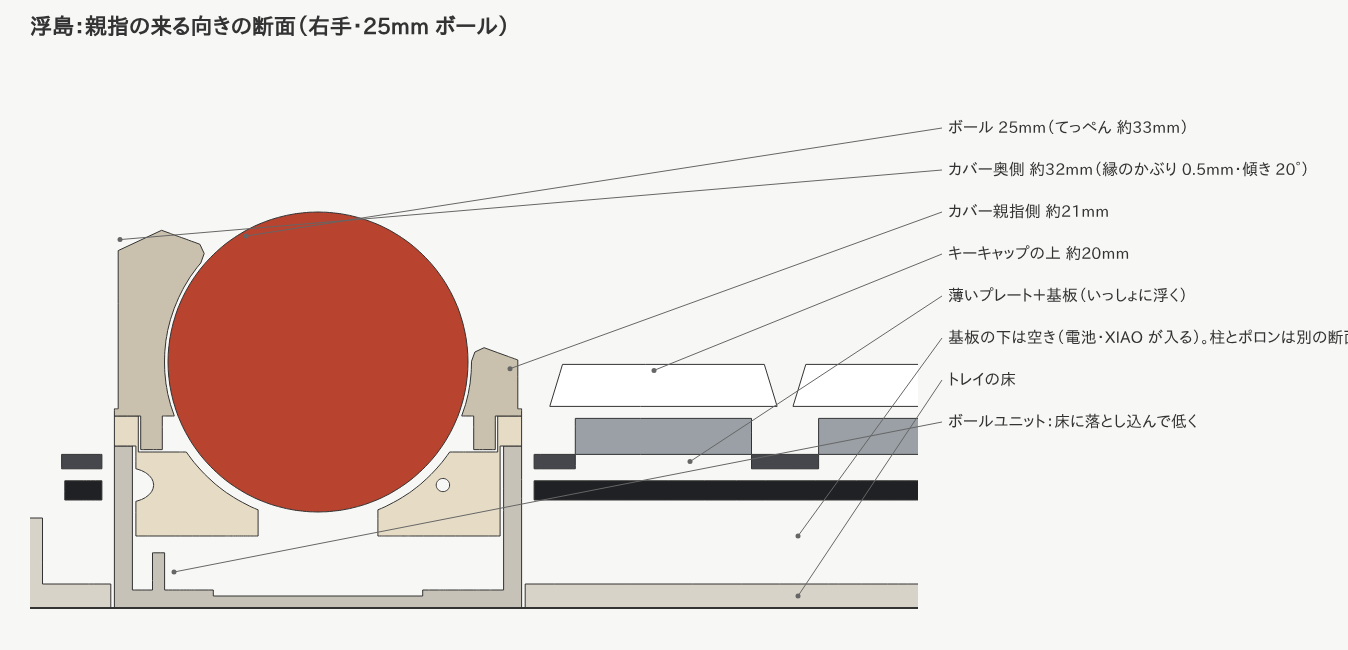
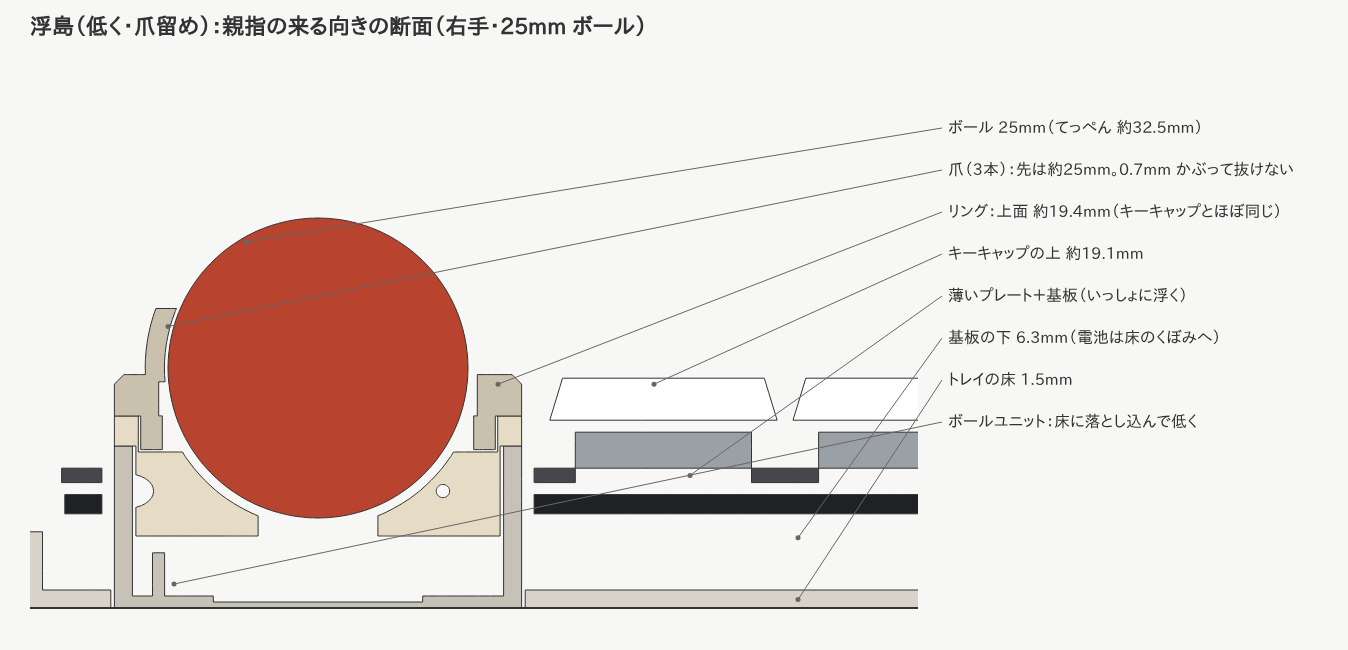
Concept Ukishima v2: lower stack and claw-set ball cover
Floor 1.5mm, battery in a floor pocket and 5.85mm under the PCB bring
key tops to ~19.1mm; the ball base floor drops to 1mm (ball top ~32.5mm).
The cover becomes a low ring flush with the keycaps plus three slim
claws following the ball (0.7mm overlap), leaving the thumb side open.
Previous renders kept as ukishima-v1-*.

Claude-Session: https://claude.ai/code/session_017zNm7dMSTHELcztuNr6aNy

diff --git a/case/concept_ukishima.py b/case/concept_ukishima.py
@@ -9,7 +9,9 @@
   - 基板＋薄いプレートを、トレイから立てた柱のポロン (ガスケット) で上下から挟んで支える
     (外周 6 か所＋内側 2 か所。キーの角どうしのすき間に置く)
   - ボールユニットは机から立つ柱。トレイの床に落とし込んで低くする (25mm ボール)
-  - カバーは縁のかぶり 0.5mm・傾き 20° にして低くする
+  - カバーは「爪留め」: キーキャップとほぼ同じ高さの低いリング＋細い爪 3 本でボールを押さえる
+    (宝石の爪留めの形。爪のあいだからボールの横まで見え、親指で上からも横からも触れる)
+  - 全体を低くする: 床 1.5mm、電池は床のくぼみ (底 0.5mm) に入れ、基板の下のすき間を 7 → 5.85mm に
 """
 import json
 import os
@@ -23,17 +25,28 @@ import ball_unit as bu  # noqa: E402
 import kataware_case as k  # noqa: E402
 
 U = k.U
-# --- カバーを低くする (構想の値) ---
-bu.LIP_OVERLAP = 0.5
-bu.COVER_TILT = 20.0
+# --- ボールユニットを低くする (構想の値): 土台の底を 1.0mm に (センサー基板の下は 0.5mm) ---
+bu.BASE_FLOOR = 1.0
+bu.SENSOR_TOP = bu.BASE_FLOOR - bu.SENSOR_POCKET + bu.SENSOR_T
+bu.BALL_BOTTOM = bu.SENSOR_TOP + bu.LENS_H + bu.LENS_GAP
 
 # --- 高さ (机から) ---
-FLOOR = 2.0          # トレイの床
-RIM = 7.5            # トレイの縁の高さ (基板の下面より 1.5mm 低い → 浮いて見える)
-PCB_B, PCB_T = 9.0, 10.6
-PLATE_B, PLATE_T = 11.6, 12.8
+FLOOR = 1.5          # トレイの床
+BATTERY_SKIN = 0.5   # 電池のくぼみの底 (電池の上面 = 0.5 + 5.0 = 5.5mm)
+PCB_B = BATTERY_SKIN + 5.0 + 0.5 + 1.85   # 電池 → 0.5mm → ソケット (1.85mm) → 基板の下面
+PCB_T = PCB_B + 1.6
+PLATE_B, PLATE_T = PCB_T + 1.0, PCB_T + 2.2
+RIM = PCB_B - 1.5    # トレイの縁 (基板の下面より 1.5mm 低い → 浮いて見える)
 PORON = 1.5
 BALL_Z0 = 0.0        # ボールユニットの底 (トレイの床に落とし込む)
+KEY_TOP = PLATE_T + 7.5
+
+# --- 爪留めカバー ---
+RING_TOP = KEY_TOP + 0.3          # リングの上面 (キーキャップとほぼ同じ高さ)
+CLAWS = (160, 50, 270)            # 爪の向き (親指の来る -20° のまわりは空ける)
+CLAW_W = 3.2                      # 爪の幅 (根元)
+CLAW_TIP_W = 2.2                  # 爪の幅 (先)
+CLAW_OVER = 0.7                   # 爪の先がボールにかぶる幅 (半径で)
 
 KEYS = {
     "left": [(c*U, r*U) for c in range(5) for r in range(4)] + [(5*U, 0), (5*U, 2*U), (5*U, 3*U), (6*U, 0)],
@@ -52,6 +65,32 @@ def keycap(x, y, z0, z1):
     lo = mf.Manifold.cube([17.8, 17.8, 0.01]).translate([x - 8.9, y - 8.9, z0])
     hi = mf.Manifold.cube([15.8, 15.2, 0.01]).translate([x - 7.9, y - 7.3, z1 - 0.01])
     return mf.Manifold.batch_hull([lo, hi])
+
+
+def claw_cover(size):
+    """低いリング＋爪 3 本の「爪留め」カバー。ひねってロックする部分は ball_unit と同じ"""
+    R_ = bu.CUPS[size]["R"]
+    cz = bu.BALL_BOTTOM + R_
+    ring = k.cyl(0, 0, bu.CUP_TOP, RING_TOP, bu.UNIT_R) - k.cyl(0, 0, bu.CUP_TOP - 1, RING_TOP + 1, R_ + 0.8)
+    # 上の外側の角を丸く見せる面取り
+    ring = ring - (k.cyl(0, 0, RING_TOP - 0.8, RING_TOP + 0.01, bu.UNIT_R + 1) -
+                   k.cyl(0, 0, RING_TOP - 0.8, RING_TOP + 0.01, bu.UNIT_R, bu.UNIT_R - 0.8))
+    tip_r = R_ - CLAW_OVER                                   # 爪の先の半径
+    tip_z = cz + ((R_ + 0.3)**2 - tip_r**2) ** 0.5            # 爪の先の高さ (ボールの赤道より上)
+    claws = []
+    shell = (mf.Manifold.sphere(R_ + 1.9, 128) - mf.Manifold.sphere(R_ + 0.3, 128)).translate([0, 0, cz])
+    for a in CLAWS:
+        # ボールの曲面に沿った細い爪 (球の殻を細い扇形で切り出す)。根元は広く、先は細く
+        lower = bu.sector(0, R_ + 4, a - 9, a + 9, RING_TOP - 0.6, cz + 1.0)
+        upper = bu.sector(0, R_ + 4, a - 6, a + 6, cz + 1.0, tip_z)
+        claws.append(shell ^ (lower + upper))
+    m = ring + k.union(claws)
+    m = m - mf.Manifold.sphere(R_ + 0.3, 128).translate([0, 0, cz])          # 爪の内側をボールに沿わせる
+    spigot = (k.cyl(0, 0, bu.RECESS_Z + 0.2, bu.CUP_TOP + 0.01, bu.SPIGOT_R) -
+              k.cyl(0, 0, bu.RECESS_Z, bu.CUP_TOP + 1, R_ + 0.5))
+    lugs = k.union([bu.sector(bu.SPIGOT_R - 0.3, bu.LUG_R, L - bu.LUG_W/2, L + bu.LUG_W/2,
+                              bu.LUG_Z0, bu.LUG_Z0 + bu.LUG_H) for L in bu.LUG_ANGLES])
+    return m + spigot + lugs, tip_z
 
 
 def half(side):
@@ -79,21 +118,21 @@ def half(side):
     parts["plate"] = k.prism(plate, PLATE_B, PLATE_T)
     # スイッチとキーキャップ
     parts["switch"] = k.union([k.cube(x - 6.9, y - 6.9, PLATE_T, x + 6.9, y + 6.9, PLATE_T + 3) for x, y in KEYS[side]])
-    parts["caps"] = k.union([keycap(x, y, PLATE_T + 4, PLATE_T + 7.5) for x, y in KEYS[side]])
+    parts["caps"] = k.union([keycap(x, y, PLATE_T + 4, KEY_TOP) for x, y in KEYS[side]])
     # nice!view
     vx = 6*U if side == "left" else k.RIGHT_X - U
     parts["view"] = k.cube(vx - 7, 2.5*U - 18, PCB_T, vx + 7, 2.5*U + 18, PCB_T + 4.2)
     if side == "left":
         ex, ey = 5.5*U, U
-        parts["knob"] = (k.cyl(ex, ey, PCB_T + 1, PLATE_T + 9.0, 7.5) -
-                         k.cyl(ex, ey, PLATE_T + 8.2, PLATE_T + 10, 6.2))
+        parts["knob"] = (k.cyl(ex, ey, PCB_T + 1, KEY_TOP + 1.0, 7.5) -
+                         k.cyl(ex, ey, KEY_TOP + 0.4, KEY_TOP + 2, 6.2))
     else:
         bx, by = k.HALVES["right"]["ball"]
 
         def at(m):
             return m.translate([bx, by, BALL_Z0])
         cup, info = bu.cup(25)
-        cover, _ = bu.cover(25)
+        cover, _ = claw_cover(25)
         parts["ball_base"] = at(bu.base())
         parts["ball_cup"] = at(cup)
         parts["ball_cover"] = at(cover)
@@ -105,7 +144,7 @@ COLORS = {  # 色・分解図での持ち上げ量
     "tray": ("#e8e4dc", 0), "posts": ("#d2cdc3", 0), "gasket": ("#e98f9c", 8),
     "pcb": ("#202124", 16), "plate": ("#3a3b3f", 26), "switch": ("#8e949b", 34), "caps": ("#f3f0e9", 46),
     "view": ("#11181f", 26), "knob": ("#2b2d31", 46),
-    "ball_base": ("#d9d5cc", 0), "ball_cup": ("#ece7dd", 22), "ball_cover": ("#e8e4dc", 44), "ball": ("#b8432f", 62),
+    "ball_base": ("#d9d5cc", 0), "ball_cup": ("#ece7dd", 22), "ball_cover": ("#2b2d31", 44), "ball": ("#b8432f", 62),
 }
 
 
@@ -119,10 +158,10 @@ def main(out):
             color, ex = COLORS[name]
             manifest.append(dict(name=fn, color=color, explode=ex, opacity=1))
     json.dump(manifest, open(os.path.join(out, "manifest.json"), "w"))
-    g = bu.cover_geometry(25)
-    print("カバー 親指側", round(BALL_Z0 + bu.cover_z(25, bu.UNIT_R, bu.THUMB_FROM), 1),
-          "奥側", round(BALL_Z0 + bu.cover_z(25, bu.UNIT_R, bu.THUMB_FROM + 180), 1),
-          "ボールのてっぺん", round(BALL_Z0 + g["cz"] + 12.5, 1), "キーキャップ上", PLATE_T + 7.5)
+    cz = bu.BALL_BOTTOM + 12.5
+    _, claw_top = claw_cover(25)
+    print(f"キーキャップ上 {KEY_TOP:.1f} / リング上面 {RING_TOP:.1f} / 爪の先 {claw_top:.1f} / "
+          f"ボールのてっぺん {cz + 12.5:.1f} (19mm: {bu.BALL_BOTTOM + 19:.1f}) / トレイの縁 {RIM:.1f}")
 
 
 if __name__ == "__main__":

diff --git a/tools/draw_concept.py b/tools/draw_concept.py
@@ -24,23 +24,20 @@ def main(out):
     bx, by = k.HALVES["right"]["ball"]
     th = bu.THUMB_FROM
     z0 = cu.BALL_Z0
-    lo = z0 + bu.cover_z(25, bu.UNIT_R, th)
-    hi = z0 + bu.cover_z(25, bu.UNIT_R, th + 180)
-    g = bu.cover_geometry(25)
-    top = z0 + g["cz"] + 12.5
-    key_top = cu.PLATE_T + 7.5
+    top = z0 + bu.BALL_BOTTOM + 25
+    _, claw_top = cu.claw_cover(25)
     labels = [
-        (-6, top - 2, f"ボール 25mm（てっぺん 約{top:.0f}mm）", (52, 40)),
-        (-16.5, hi - 0.8, f"カバー奥側 約{hi:.0f}mm（縁のかぶり 0.5mm・傾き {bu.COVER_TILT:.0f}°）", (52, 36.5)),
-        (16, lo - 0.6, f"カバー親指側 約{lo:.0f}mm", (52, 33)),
-        (28, key_top - 0.5, f"キーキャップの上 約{key_top:.0f}mm", (52, 29.5)),
+        (-6, top - 2, f"ボール 25mm（てっぺん 約{top:.1f}mm）", (52, 40)),
+        (-12.5, claw_top - 1.5, f"爪（3本）：先は約{claw_top:.0f}mm。0.7mm かぶって抜けない", (52, 36.5)),
+        (15, cu.RING_TOP - 0.8, f"リング：上面 約{cu.RING_TOP:.1f}mm（キーキャップとほぼ同じ）", (52, 33)),
+        (28, cu.KEY_TOP - 0.5, f"キーキャップの上 約{cu.KEY_TOP:.1f}mm", (52, 29.5)),
         (31, cu.PLATE_B + 0.6, "薄いプレート＋基板（いっしょに浮く）", (52, 26)),
-        (40, cu.PCB_B - 3, "基板の下は空き（電池・XIAO が入る）。柱とポロンは別の断面", (52, 22.5)),
-        (40, 1, "トレイの床", (52, 19)),
-        (-12, 3, "ボールユニット：床に落とし込んで低く", (52, 15.5)),
+        (40, cu.PCB_B - 2, f"基板の下 {cu.PCB_B - cu.FLOOR:.1f}mm（電池は床のくぼみへ）", (52, 22.5)),
+        (40, 0.7, f"トレイの床 {cu.FLOOR}mm", (52, 19)),
+        (-12, 2, "ボールユニット：床に落とし込んで低く", (52, 15.5)),
     ]
     W, H, body = ds.section(items, "az", (bx, by, th), ((-24, 50), (-1, 44)),
-                            "浮島：親指の来る向きの断面（右手・25mm ボール）", labels, px=12)
+                            "浮島（低く・爪留め）：親指の来る向きの断面（右手・25mm ボール）", labels, px=12)
     open(os.path.join(out, "ukishima-section.svg"), "w").write(ds.svg(W, H, body))
 
 
